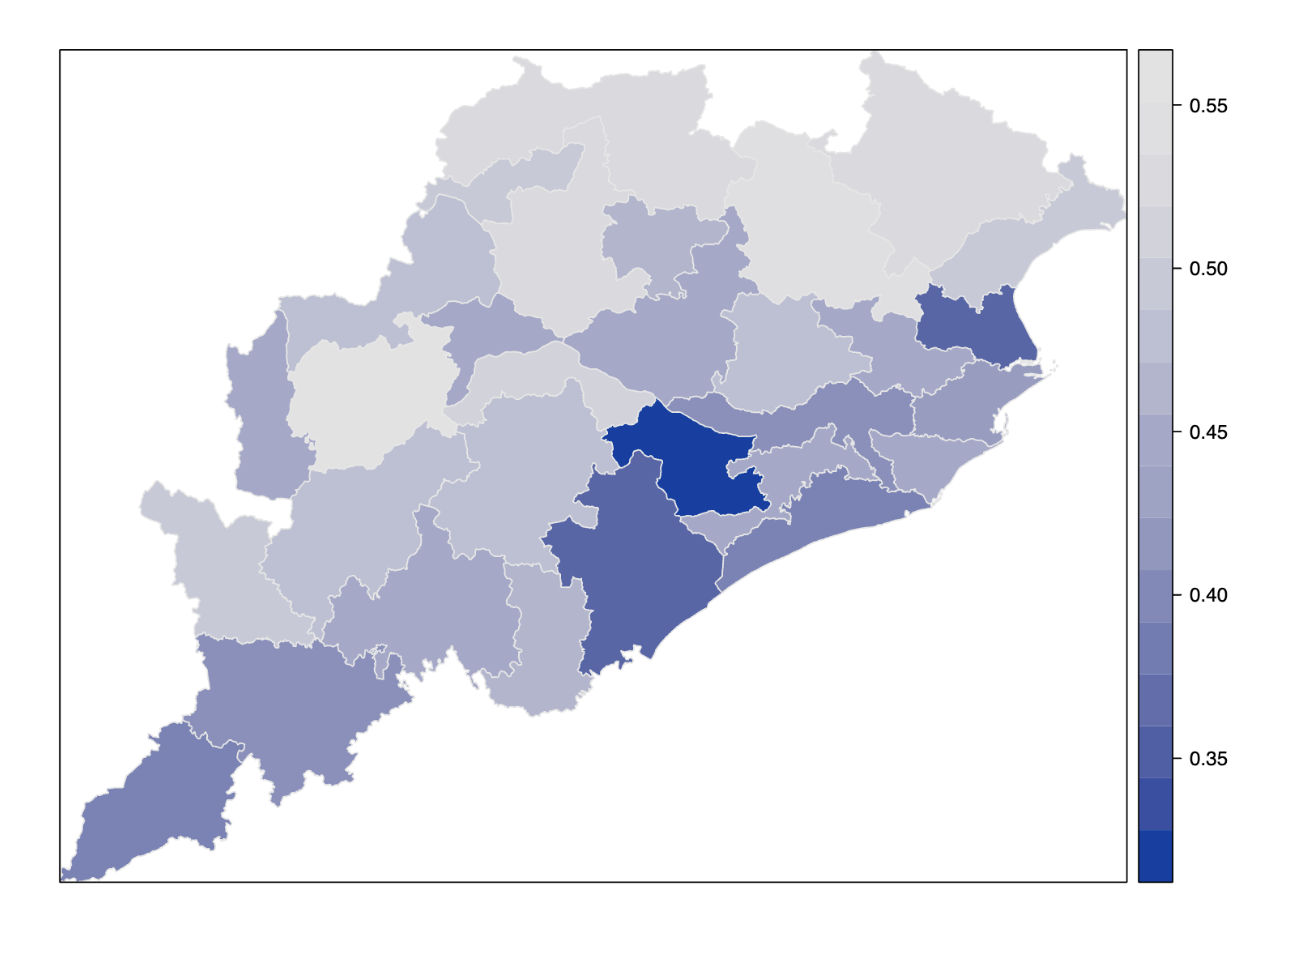
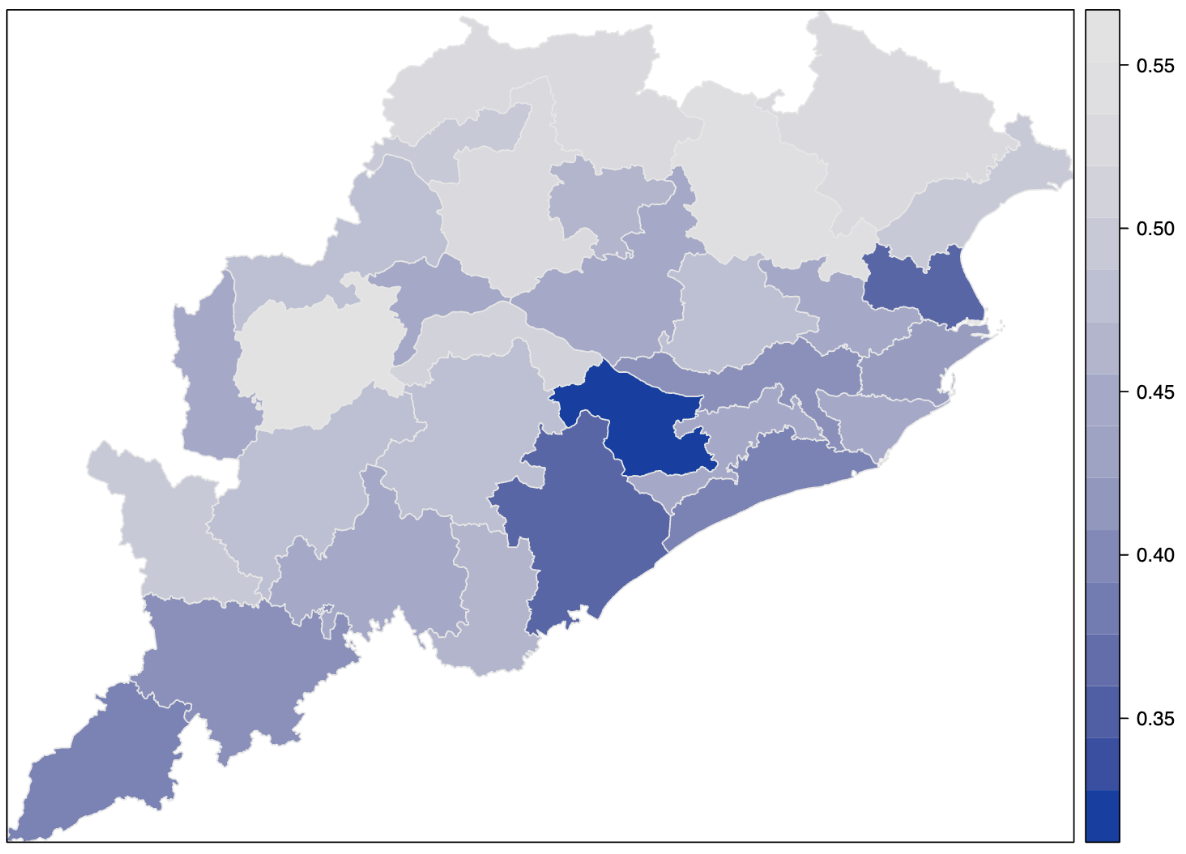
Fixed some copy, cropped pictures, added bbc svg

diff --git a/pages/audio/recording/guqin/index.html b/pages/audio/recording/guqin/index.html
@@ -109,14 +109,16 @@
             There are many challenges that come with learning only through
             video, and most of the resources for guqin are not yet translated to
             English. Progress is slow, but I still try to record regularly to
-            capture improvement.
+            capture improvement. <br /><br />
+            Attending that intro class was fateful in many ways, but most of all
+            it initiated my (re)introduction to working with sound.
           </p>
           <figure>
             <img class="content" src="/public/early-qin-setup.jpg" />
             <figcaption>my early guqin setup, spring 2020</figcaption>
           </figure>
         </div>
-        <div class="double">
+        <div class="single">
           <figure>
             <img class="content" src="/public/video-class.jpg" />
             <figcaption>demonstration of a hand technique</figcaption>

diff --git a/index.html b/index.html
@@ -95,11 +95,10 @@
         </div>
         <div class="double">
           <p class="content">
-            My name is Emma Brown and this is my site. I was born in the year of
-            the pig, and they're my favorite animal. I'm a software engineer,
+            My name is Emma Brown and this is my site. I'm a software engineer,
             but in my free-time I focus on field recording, sample-based music
-            production, and the guqin (古琴). In the future, I would like to
-            explore 3D art, physical computing, and creative software.
+            production, and the guqin (古琴). In the future, I hope to be able
+            to explore 3d art and hardware.
           </p>
           <img class="content" src="/public/fish.jpg" />
         </div>

diff --git a/pages/computing/software.html b/pages/computing/software.html
@@ -129,6 +129,11 @@
                 <a href="https://www.linkedin.com/in/emma-nworb/"> linkedin</a>
               </li>
               <li>
+                <img
+                  src="/public/bbc.svg"
+                  alt="small black bbc symbol"
+                  width="14px"
+                />
                 <a href="https://bbcnewslabs.co.uk/news/2020/modular-hack/"
                   >BBC NewsHack 2020</a
                 >

diff --git a/styles/styles.css b/styles/styles.css
@@ -20,6 +20,7 @@ figure {
 
 figcaption {
   font-style: italic;
+  font-size: 0.9rem;
 }
 
 /* containers */
